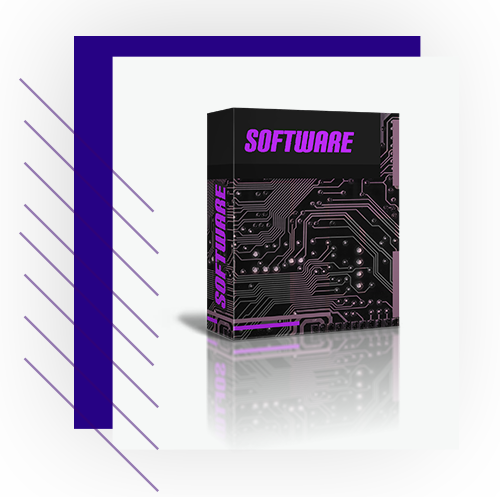
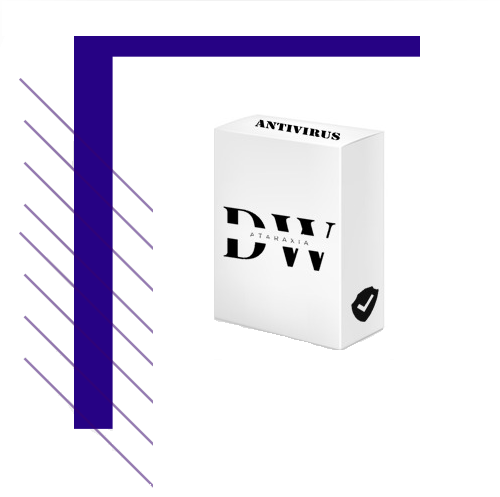
Add image
Se añadio imagen y cambio parrafo

Changed region(s): [[0.33, 0.2113, 0.81, 0.8753], [0.3, 0.9658, 0.33, 0.996], [0.3, 0.8753, 0.33, 0.9054]]

diff --git a/public/index.html b/public/index.html
@@ -42,7 +42,6 @@
          <a href="#about">Nosotros</a>
          <a href="#we_Do">¿Que hacemos?</a>
          <a href="#team">Nuestro Equipo</a>
-         <a href="#testimonial">Testimonial</a>
          <a href="#contact">Contactanos</a>
       </div>
       <!-- header -->
@@ -306,7 +305,7 @@
                         <ul class="location_icon">
                            <li><a href="#"><i class="fa fa-map-marker" aria-hidden="true"></i></a><br> Puede buscarnos en nuestras <br>diferentes sucursales</li>
                            <li><a href="#"><i class="fa fa-phone" aria-hidden="true"></i></a><br>
-                              (+71) 1234567890<br> (+71) 1234567890
+                              (+52) 9513601869<br>(+52) 9512296644<br>(+52) 9585837950
                            </li>
                            <li><a href="#"><i class="fa fa-envelope" aria-hidden="true"></i></a><br> ataraxia@gmail.com</li>
                         </ul>
